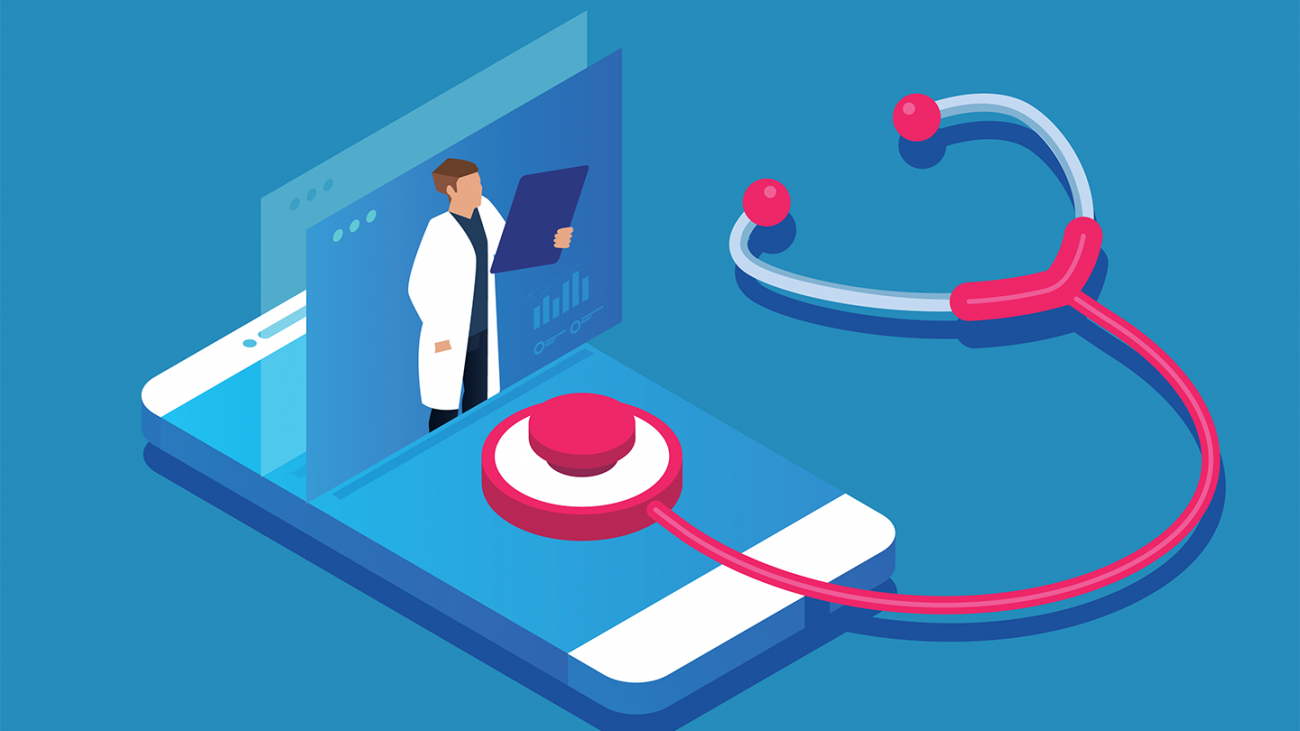
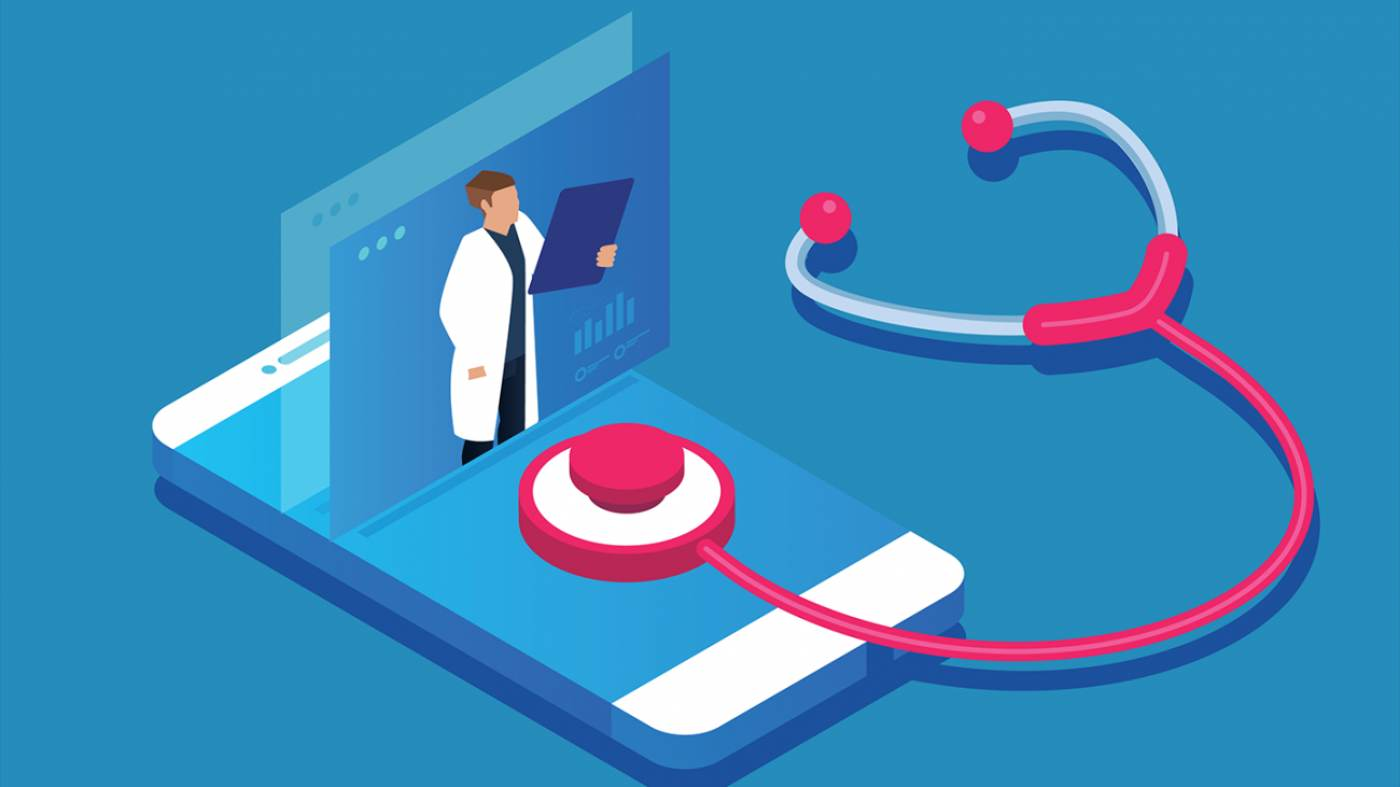
about page optimize

diff --git a/public/frontend/assets/css/style.css b/public/frontend/assets/css/style.css
@@ -2740,6 +2740,14 @@ footer {
 /*-- Page Title --*/
 .page-title-four {
   background-image: url("../img/blog/1.jpg");
+  background-image: -webkit-image-set(
+    url("../img/blog/1.webp") type("image/webp"),
+    url("../img/blog/1.jpg") type("image/jpeg")
+  );
+  background-image: image-set(
+    url("../img/blog/1.webp") type("image/webp"),
+    url("../img/blog/1.jpg") type("image/jpeg")
+  );
 }
 .page-title-four .page-title-item {
   margin-top: 0;

diff --git a/resources/views/frontend/about.blade.php b/resources/views/frontend/about.blade.php
@@ -3,10 +3,19 @@
 @section('title', ($siteSettings['site_name'] ?? 'TeleDoc') . ' - About Us')
 @section('meta_description', 'Learn about TeleDoc Athful — an online healthcare platform connecting patients with doctors through telemedicine.')
 
+@push('head')
+<link rel="preload" as="image" href="{{ asset('frontend/assets/img/blog/1.webp') }}" type="image/webp" fetchpriority="high">
+@endpush
+
 @push('styles')
+<link rel="stylesheet" href="{{ asset('frontend/assets/css/odometer.min.css') }}" media="print" onload="this.media='all'">
+<link rel="stylesheet" href="{{ asset('frontend/assets/css/owl.carousel.min.css') }}" media="print" onload="this.media='all'">
+<link rel="stylesheet" href="{{ asset('frontend/assets/css/owl.theme.default.min.css') }}" media="print" onload="this.media='all'">
+<noscript>
 <link rel="stylesheet" href="{{ asset('frontend/assets/css/odometer.min.css') }}">
 <link rel="stylesheet" href="{{ asset('frontend/assets/css/owl.carousel.min.css') }}">
 <link rel="stylesheet" href="{{ asset('frontend/assets/css/owl.theme.default.min.css') }}">
+</noscript>
 @endpush
 
 @push('extra_scripts')
@@ -45,14 +54,14 @@
                 <div class="col-lg-6">
                     <div class="about-item">
                         <div class="about-left">
-                            <img src="{{ $about->left_image ? asset('storage/' . $about->left_image) : asset('frontend/assets/img/home-one/4.jpg') }}" alt="About">
+                            <img src="{{ $about->left_image ? asset('storage/' . $about->left_image) : asset('frontend/assets/img/home-one/4.jpg') }}" alt="About" decoding="async">
                         </div>
                     </div>
                 </div>
                 <div class="col-lg-6">
                     <div class="about-item about-right">
                         @if($about->right_image)
-                        <img src="{{ asset('storage/' . $about->right_image) }}" alt="About">
+                        <img src="{{ asset('storage/' . $about->right_image) }}" alt="" decoding="async" loading="lazy">
                         @endif
                         <h2>{{ $about->title }}</h2>
                         <div class="about-description">{!! $about->description !!}</div>
@@ -167,7 +176,6 @@
                 </div>
                 <div class="col-lg-5 pr-0">
                     <div class="speciality-item speciality-right">
-                        <img src="frontend/assets/img/home-two/8.jpg" alt="Speciality">
                         <div class="speciality-emergency">
                             <div class="speciality-icon">
                                 <i class="icofont-ui-call"></i>
@@ -230,9 +238,9 @@
                     @forelse($testimonials as $testimonial)
                         <div class="testimonial-item">
                             @if($testimonial->patient_image)
-                                <img src="{{ asset('storage/' . $testimonial->patient_image) }}" alt="{{ $testimonial->patient_name }}">
+                                <img src="{{ asset('storage/' . $testimonial->patient_image) }}" alt="{{ $testimonial->patient_name }}" width="120" height="120" decoding="async" loading="lazy">
                             @else
-                                <img src="{{ asset('assets/img/home-three/7.png') }}" alt="{{ $testimonial->patient_name }}">
+                                <img src="{{ asset('frontend/assets/img/home-three/7.png') }}" alt="{{ $testimonial->patient_name }}" width="120" height="120" decoding="async" loading="lazy">
                             @endif
                             <h3>{{ $testimonial->patient_name }}</h3>
                             @if($testimonial->patient_designation)
@@ -249,7 +257,7 @@
                         </div>
                     @empty
                         <div class="testimonial-item">
-                            <img src="{{ asset('assets/img/home-three/7.png') }}" alt="Testimonial">
+                            <img src="{{ asset('frontend/assets/img/home-three/7.png') }}" alt="Testimonial" width="120" height="120" decoding="async" loading="lazy">
                             <h3>No Testimonials Yet</h3>
                             <p>We are collecting patient testimonials. Check back soon!</p>
                         </div>
@@ -273,7 +281,7 @@
                     <div class="blog-item">
                         <div class="blog-top">
                             <a href="{{ route('blog-details', $latestBlog->slug) }}">
-                                <img src="{{ $latestBlog->banner_image ? asset('storage/' . $latestBlog->banner_image) : asset('assets/img/home-one/11.jpg') }}" alt="{{ $latestBlog->title }}">
+                                <img src="{{ $latestBlog->banner_image ? asset('storage/' . $latestBlog->banner_image) : asset('frontend/assets/img/home-one/11.jpg') }}" alt="{{ $latestBlog->title }}" decoding="async" loading="lazy">
                             </a>
                         </div>
                         <div class="blog-bottom">

diff --git a/app/Http/Controllers/Frontend/FrontendController.php b/app/Http/Controllers/Frontend/FrontendController.php
@@ -86,24 +86,19 @@ class FrontendController extends Controller
     }
 
     function about(){
-        // Fetch 3 latest published blogs for home page
         $latestBlogs = Blog::where('status', 'Published')
             ->latest('published_at')
             ->take(3)
-            ->get();
-        // Fetch all active services
+            ->get(['blog_id', 'title', 'slug', 'banner_image', 'content', 'published_at', 'created_at']);
         $services = Service::where('status', 'Active')
             ->orderBy('order', 'asc')
-            ->get();
-        // Fetch all active specialities
+            ->get(['service_id', 'title', 'icon', 'short_description']);
         $specialities = Speciality::where('status', 'Active')
             ->orderBy('order', 'asc')
-            ->get();
-        // Fetch all active testimonials
+            ->get(['speciality_id', 'title', 'description', 'icon']);
         $testimonials = Testimonial::where('status', 'Active')
             ->orderBy('order', 'asc')
-            ->get();
-        // Fetch active about section
+            ->get(['testimonial_id', 'patient_name', 'patient_designation', 'patient_image', 'testimonial_text', 'rating']);
         $about = About::where('status', 'Active')->first();
 
         return view('frontend.about', compact('latestBlogs', 'services', 'specialities', 'testimonials', 'about'));

diff --git a/resources/views/frontend/layout/stylesheet.blade.php b/resources/views/frontend/layout/stylesheet.blade.php
@@ -51,7 +51,7 @@
         @stack('critical_styles')
         <link rel="stylesheet" href="{{ asset('frontend/assets/css/meanmenu.css') }}">
         <link rel="stylesheet" href="{{ asset('frontend/assets/css/icofont.min.css') }}">
-        <link rel="stylesheet" href="{{ asset('frontend/assets/css/style.css') }}">
+        <link rel="stylesheet" href="{{ asset('frontend/assets/css/style.css') }}?v={{ filemtime(public_path('frontend/assets/css/style.css')) }}">
         <link rel="stylesheet" href="{{ asset('frontend/assets/css/responsive.css') }}">
         <link rel="stylesheet" href="{{ asset('frontend/assets/css/rich-text-content.css') }}">
         <link rel="stylesheet" href="{{ asset('frontend/assets/css/performance.css') }}">
